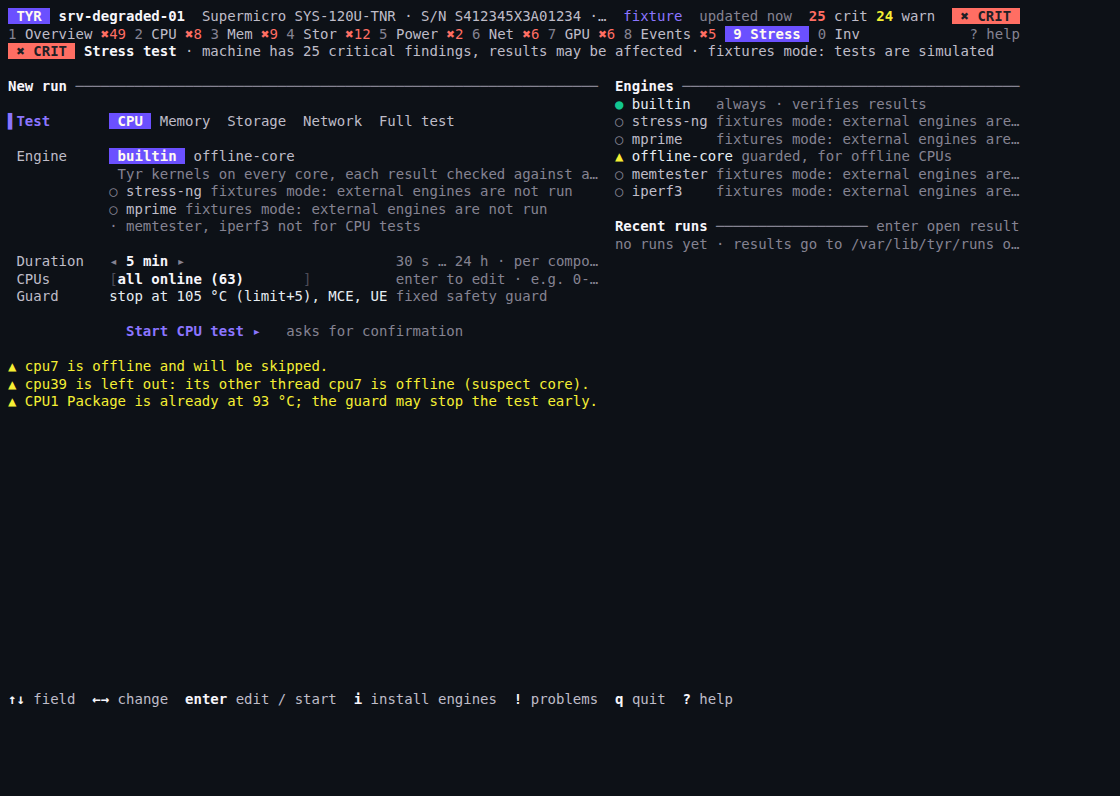
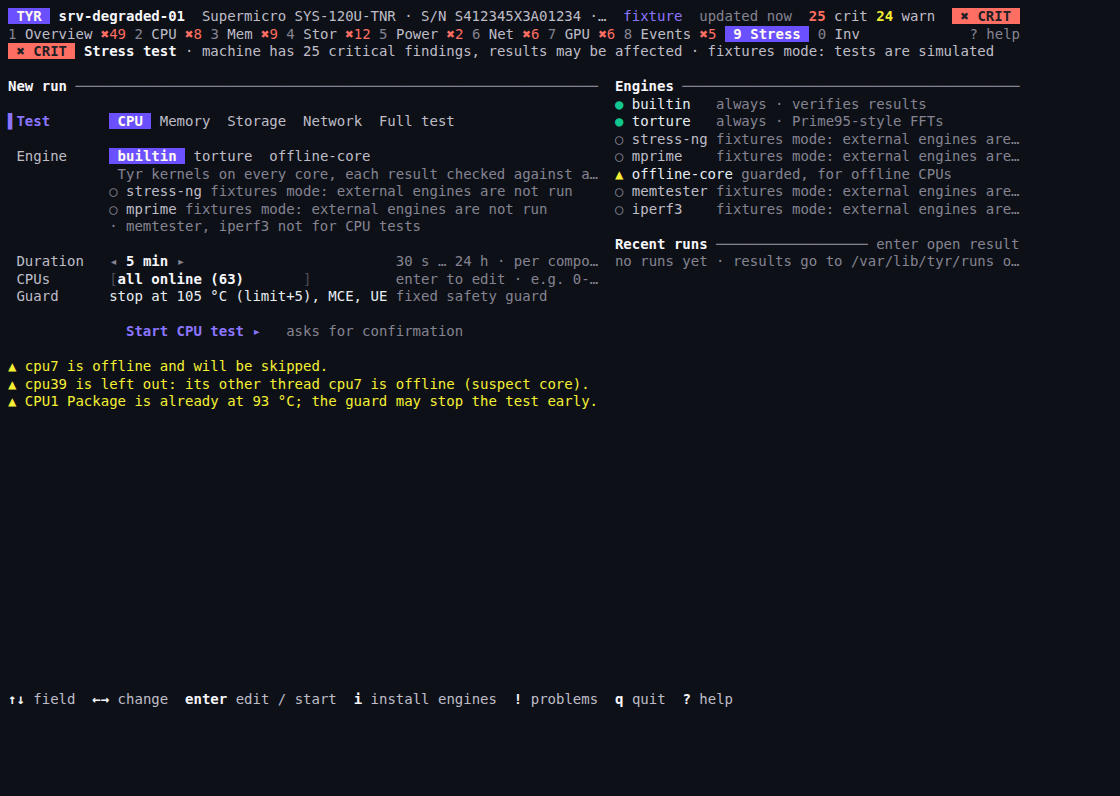
docs: torture FFT, residue table and FFT paths
- DEVELOPER: internal/workload covers the Lucas-Lehmer FFT with its
  AVX-512 / AVX2 assembly; make ll-table regenerates the residues;
  TestKernelsExact and the LL benchmarks; the rule for assembly (Go
  fallback, every path tested for the same results).
- README directory tree and architecture layers name the FFT.
- stress-tests: FFT sizes and the suspect-core default in the CPU row.
- Makefile: ll-table target.
- The stress form screenshot shows the torture engine.

Changed region(s): [[0.5312, 0.1508, 0.9062, 0.3317], [0.25, 0.1809, 0.3438, 0.2111], [0.1562, 0.1809, 0.2188, 0.2111]]

diff --git a/DEVELOPER.md b/DEVELOPER.md
@@ -35,6 +35,7 @@ CGO_ENABLED=0 go build -o tyr ./cmd/tyr     # static binary in the repo root
 | `make live` | collectors against this host, read-only |
 | `make fixtures` | regenerate the synthetic server fixtures |
 | `make golden` | regenerate the workload golden table (only after changing a kernel) |
+| `make ll-table` | regenerate the torture test's residues (only after changing its cases; about a minute) |
 | `make diagrams` | re-render the archify diagrams and export their SVGs |
 
 `CGO_ENABLED=0` is exported by the Makefile; a plain `go build` links against
@@ -65,7 +66,7 @@ flowchart LR
 | `internal/affinity`, `internal/cpuset` | CPU pinning and CPU list parsing for the core tests |
 | `internal/model` | `Snapshot` and the shared types; the JSON schema |
 | `internal/stress` | test lifecycle, guard rules, engines, install planner, metric series, the isolated offline-core test |
-| `internal/workload` | deterministic compute kernels checked against golden values |
+| `internal/workload` | deterministic compute kernels checked against golden values; the torture test's Lucas-Lehmer FFT (Go, plus AVX-512 / AVX2 FMA assembly in `fft_amd64.s`) checked against exact residues |
 | `internal/report` | Markdown reports, Mermaid charts, history, glamour rendering |
 | `internal/tui` | the Bubble Tea front end |
 | `internal/hostfs`, `internal/execx` | read-only host access; tool execution without a shell, with deadlines |
@@ -87,7 +88,9 @@ More: [docs/architecture.md](docs/architecture.md).
 4. **Status without colour.** Every status has a glyph and a word
    (`● OK ▲ WARN ✖ CRIT ? UNKNOWN ○ unavailable`); golden tests render dark,
    light and NO_COLOR and require the same text.
-5. **No new dependencies** without a discussion first.
+5. **No new dependencies** without a discussion first. No cgo; assembly only
+   where it pays (the torture FFT), always with a Go fallback and a test
+   that every path gives the same results.
 6. **Commit messages, comments and files describe the work only** - no notes or
    trailers crediting the tool that helped write them (see §8).
 
@@ -104,7 +107,8 @@ go test ./internal/tui -run TestGoldenScreens -update   # rewrite golden screens
 |---|---|---|
 | Unit | every package | fixtures, no root, no network |
 | Golden screens | `internal/tui/testdata/golden` | 22 screens × 80×24, 120×40, 160×50; dark, light and NO_COLOR must match |
-| Workload goldens | `internal/workload` | `make golden` only after changing a kernel |
+| Workload goldens | `internal/workload` | `make golden` only after changing a kernel; `make ll-table` only after changing the torture cases |
+| FFT paths | `TestKernelsExact` | the Go, AVX2 and AVX-512 butterflies must all give the exact residues; `go test ./internal/workload -bench LL` measures them |
 | Live collectors | `make live` | `TYR_LIVE=1`, read-only, this host |
 | Live clipboard | `TYR_CLIP_LIVE=1 go test ./internal/tui -run TestCopyLiveDesktop` | copies through `xclip`/`wl-copy` and restores the clipboard |
 | Screen dumps | `TYR_SHOW=server-degraded:4,6+enter:120x40 go test ./internal/tui -run TestDumpTabs -v` | prints screens; `TYR_STRESS=server-degraded:120x40` dumps a stress run |

diff --git a/docs/architecture.md b/docs/architecture.md
@@ -14,6 +14,7 @@ read that snapshot or its JSON.
 | Sources | `source/sysfs`, `dmi`, `smart`, `ipmi`, `redfish`, `raid`, `pci`, `gpu`, `kernellog`, `netinfo` | read and parse one kind of data; SMBIOS (`/sys/firmware/dmi/tables`), NICs (`SIOCETHTOOL`) and the BMC (`/dev/ipmi0`) natively, their tools only as fallback |
 | Collectors | `collector/system`, `cpu`, `memory`, `storage`, `power`, `network`, `accel`, `events` | combine sources into a section with findings |
 | Checks | `check` | thresholds → `OK` / `WARN` / `CRIT` / `UNKNOWN` |
+| Workloads | `workload` | the verified compute kernels of the core and CPU tests; the torture test's Lucas-Lehmer FFT (AVX-512 / AVX2 FMA or Go) |
 | Explanations | `explain` | the alert catalog: meaning, usual causes, commands per finding code |
 | Model | `model` | `Snapshot`, sections, sensors, findings, inventory; JSON schema 1.0 |
 | Consumers | `tui`, `cmd/tyr`, `stress`, `report` | show, export, load, report |

diff --git a/docs/stress-tests.md b/docs/stress-tests.md
@@ -73,7 +73,7 @@ engine: [tools.md](tools.md).
 
 | Component | Choice | Default |
 |---|---|---|
-| CPU | CPU list (`--cpus 0-7,16`, `S` on the CPU tab: the selected core and its sibling) | all online CPUs |
+| CPU | CPU list (`--cpus 0-7,16`, `S` on the CPU tab: the selected core and its sibling); torture engine: FFT sizes (`--fft small\|large\|blend`, the FFTs field) | all online CPUs except suspect cores; `blend` |
 | Memory | percent of available memory, up to 100 (`--mem-percent`) | 70 %; a reserve of max(1 GiB, 5 % of RAM) always stays free |
 | Storage | `read` a disk or all disks in parallel; `file` on a writable filesystem (`--size`) | `read`, all disks; file size min(4 GiB, 10 % of free space) |
 | Network | peer, streams, direction (`--reverse`: the peer sends) | 4 streams, this host sends |

diff --git a/README.md b/README.md
@@ -462,7 +462,7 @@ tyr/
 │   ├── explain/             the alert catalog: meaning, causes, commands
 │   ├── model/               Snapshot and the shared types (JSON schema 1.0)
 │   ├── stress/              lifecycle, guard, engines, install planner, series, offline-core test
-│   ├── workload/            self-checking compute kernels (golden values)
+│   ├── workload/            self-checking compute kernels; the torture test's FFT (Go + AVX asm)
 │   ├── report/              Markdown, Mermaid, history, glamour rendering
 │   ├── tui/                 Bubble Tea TUI
 │   ├── netpeer/, netproto/  network test peer and protocol
